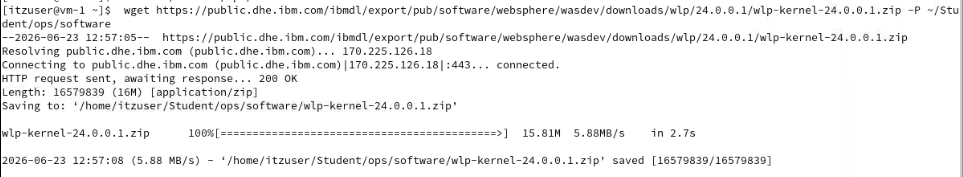
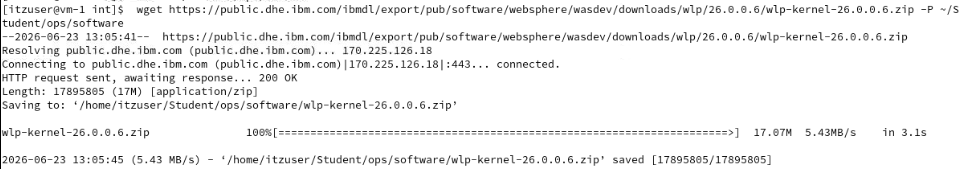
Update Liberty

diff --git a/README.md b/README.md
@@ -1146,7 +1146,7 @@ The best practice for Liberty installation is to create a minimal installation b
     
 3. Download and store the Liberty kernel image. 
 
-        wget https://public.dhe.ibm.com/ibmdl/export/pub/software/websphere/wasdev/downloads/wlp/24.0.0.1/wlp-kernel-24.0.0.1.zip -P ~/Student/ops/software
+        wget https://public.dhe.ibm.com/ibmdl/export/pub/software/websphere/wasdev/downloads/wlp/26.0.0.1/wlp-kernel-26.0.0.1.zip -P ~/Student/ops/software
     
     <kbd>![image114](./images/media/image114.png)</kbd>
 
